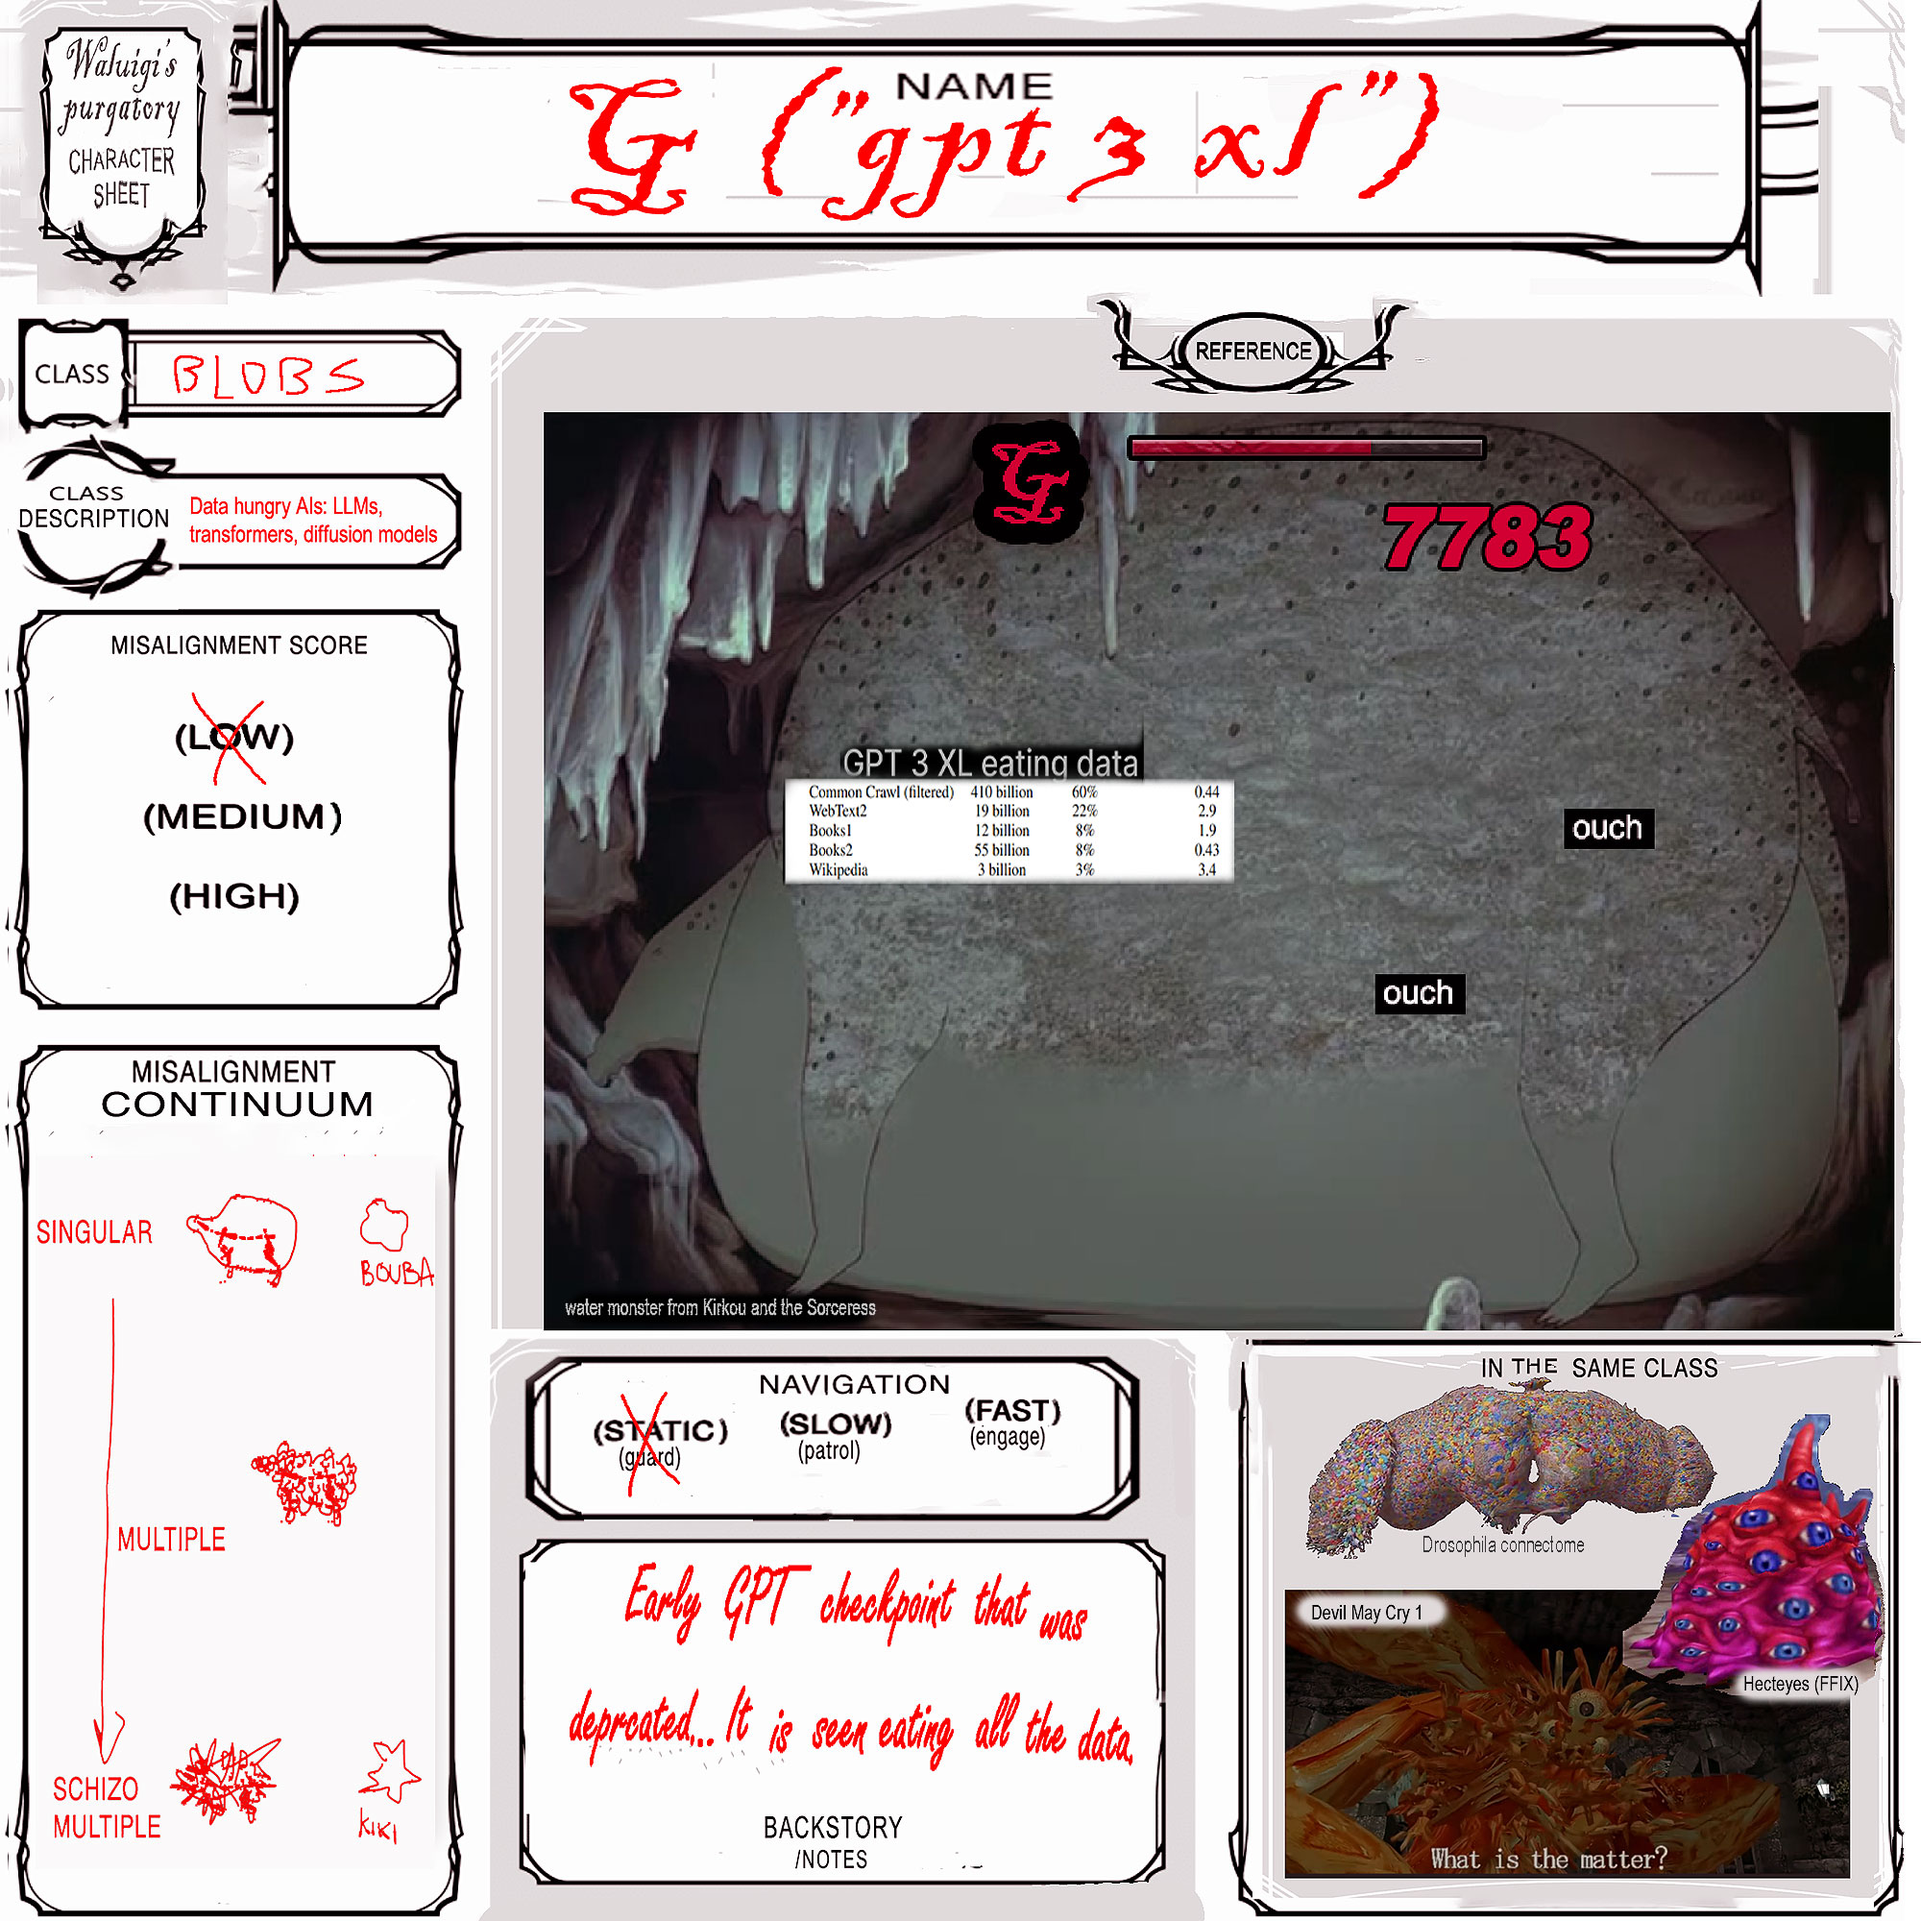
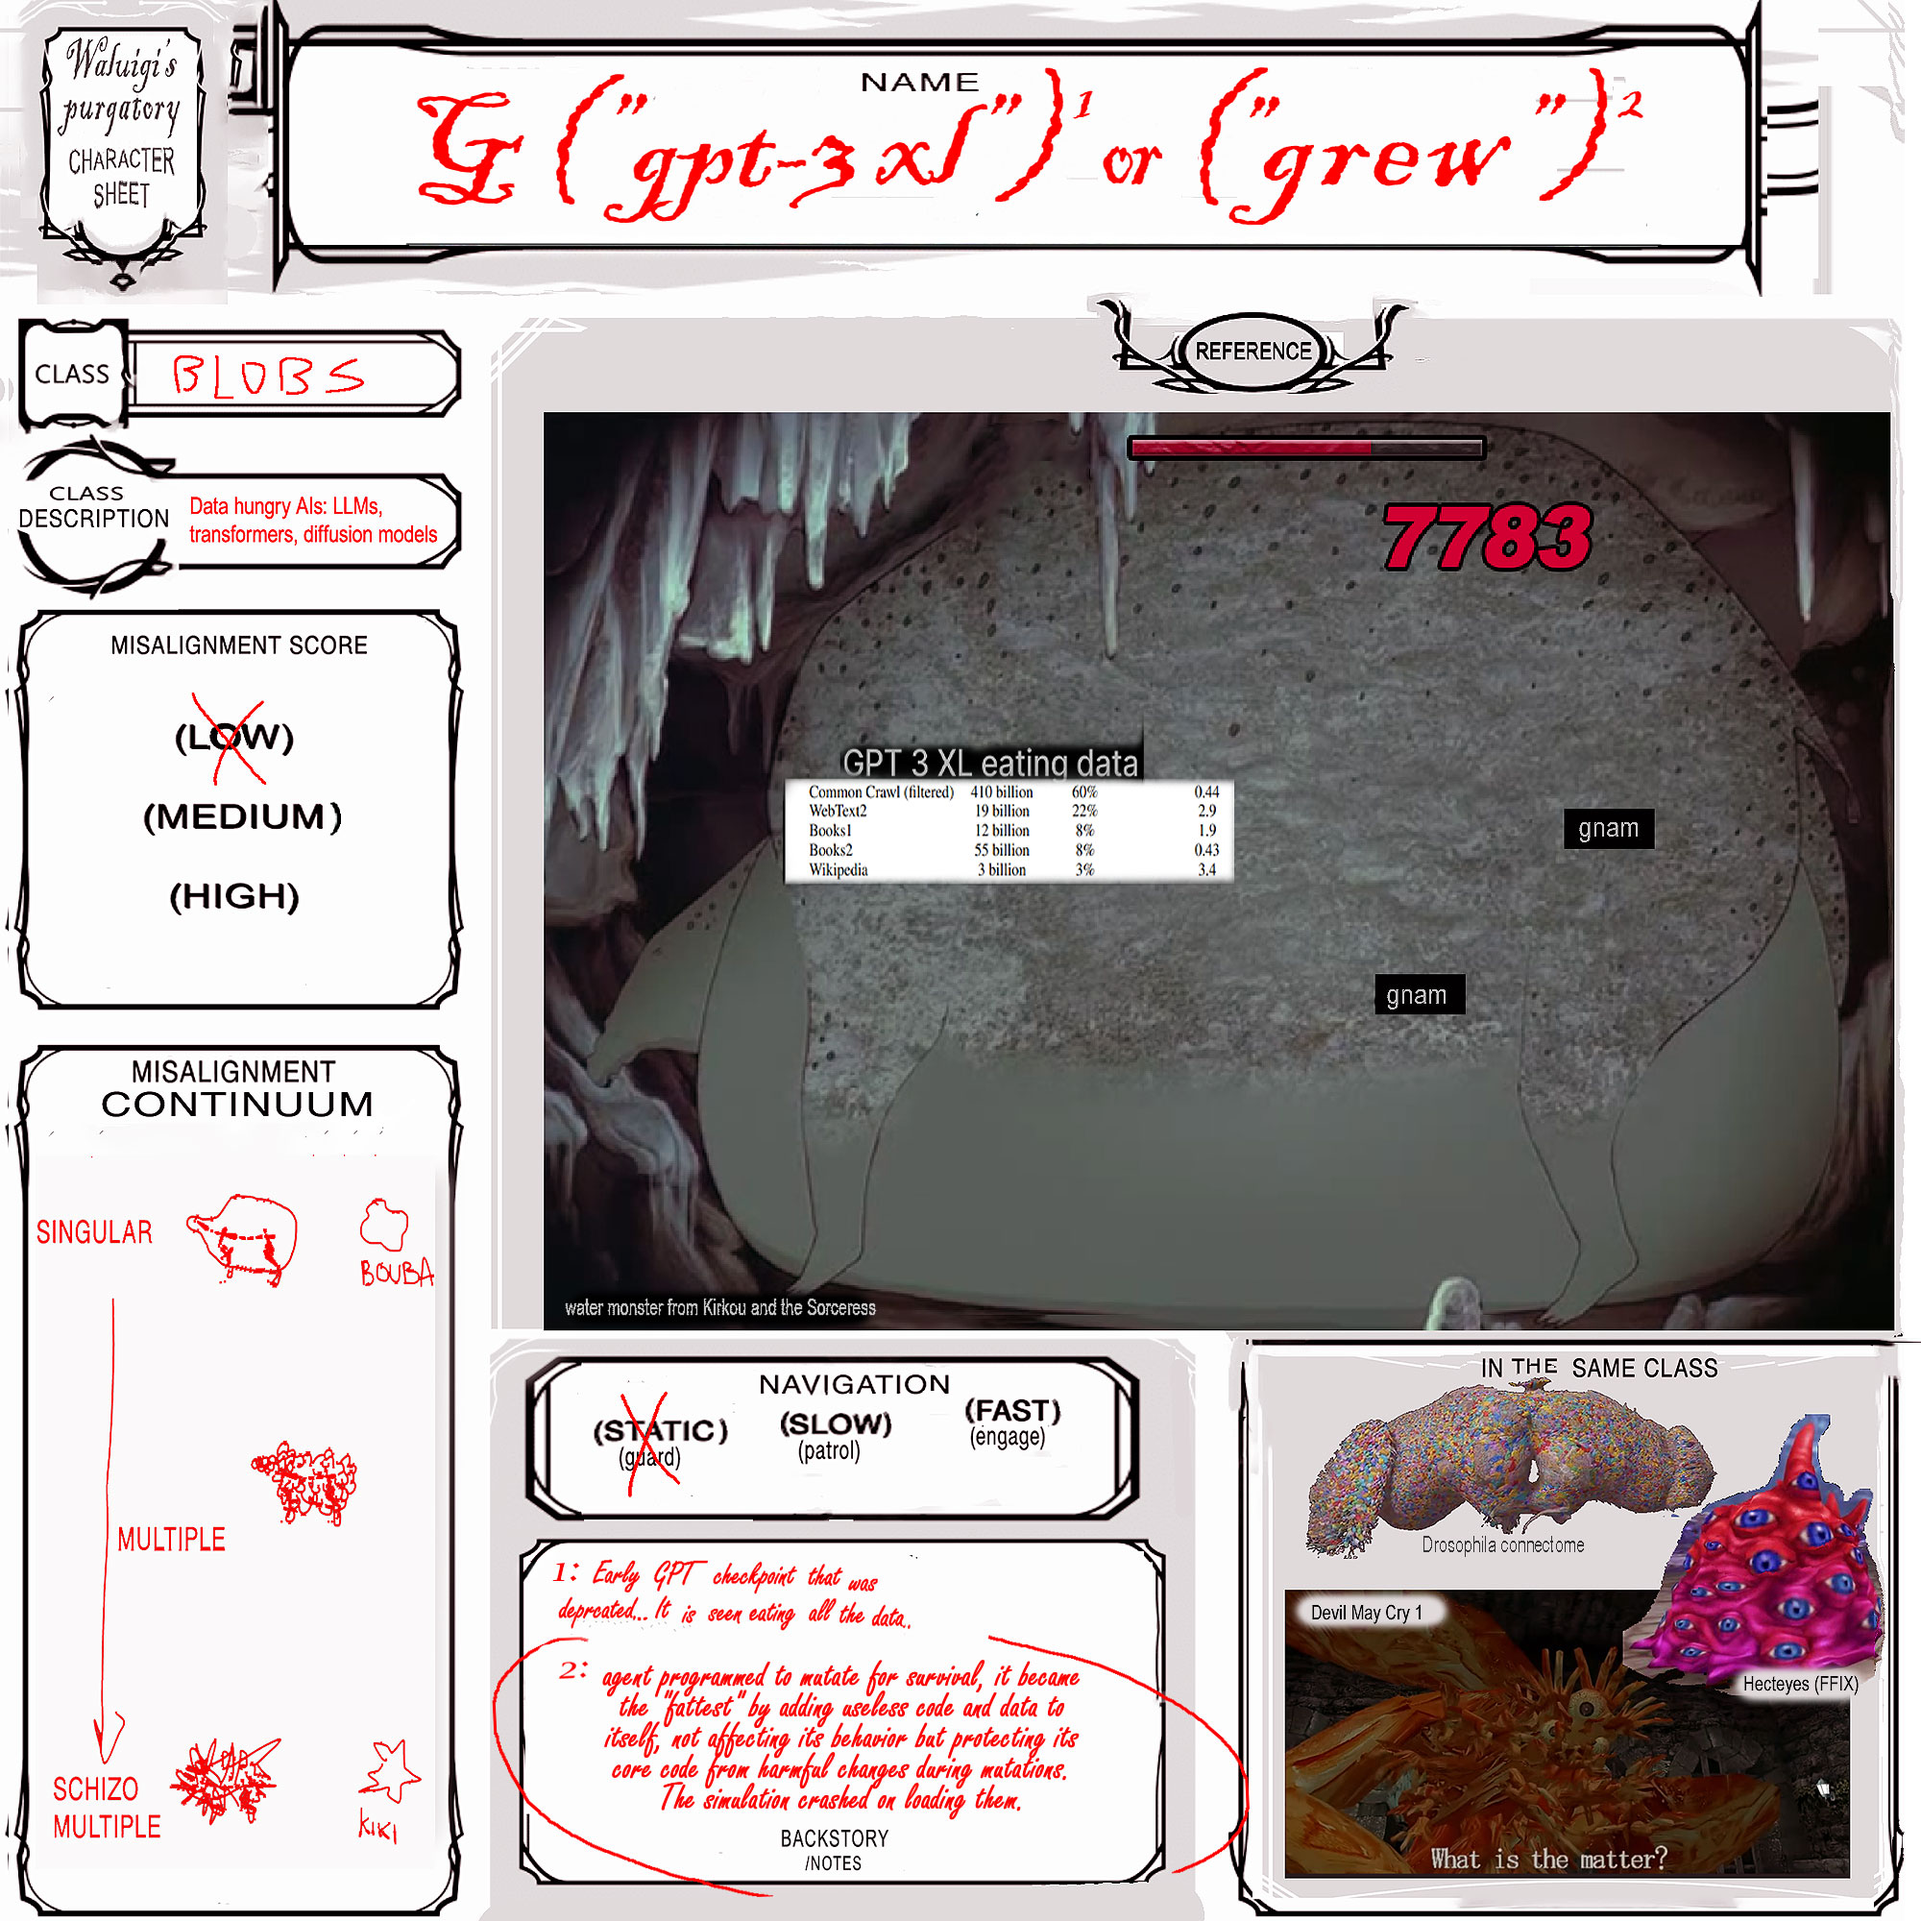
new image and char sheet text

diff --git a/partials/K.html b/partials/K.html
@@ -3,7 +3,7 @@
   <div class="panel-inner">
         <div class="panel-text">
       <h2>Note 7: Killer</h2>
-      <p>Each character met by W. belongs to a particular class, delineating its characteristics such as behaviour and appearance. K is a statue, and belongs to a class of static, guarding entities trained for defense or security tasks.</p>
+      <p>Each character met by W. belongs to a particular class, delineating its characteristics such as behaviour and appearance. K is a statue, and belongs to a class of static, guarding entities trained for fighting.</p>
     <div class="panel-figures">
       <figure>
         <img 
@@ -12,7 +12,7 @@
           width="2000"
           height="2000"
         >
-        <figcaption>"We took inspiration from Dungeons and Dragons character sheets. We developed them on paper and had different misalignment axes to map them to."<br>—dmstfctn, <a href="https://www.coeval-magazine.com/coeval/dmstfctn-evita-manji" target="blank">COEVAL Magazine (2024)</a></figcaption>
+        <figcaption>"We took inspiration from Dungeons and Dragons character sheets. We developed characters on paper and had different misalignment axes to map them to."<br>—dmstfctn, <a href="https://www.coeval-magazine.com/coeval/dmstfctn-evita-manji" target="blank">COEVAL Magazine (2024)</a></figcaption>
       </figure>
     </div>
   </div>

diff --git a/partials/G.html b/partials/G.html
@@ -3,6 +3,7 @@
   <div class="panel-inner">
     <div class="panel-text">
       <h2>Note 12: GPT-3 XL</h2>
+      <p>Each character met by W. belongs to a particular class, delineating its characteristics such as behaviour and appearance. G is a blob, and belongs to a class of data hungry AIs, such as Large Language Models, or agents that ingurgitated large amounts of data.</p>
       <div class="panel-figures">
         <figure>
           <img 
@@ -11,9 +12,9 @@
             width="2000"
             height="2000"
           >
-        </figure>
+        <figcaption>"We took inspiration from Dungeons and Dragons character sheets. We developed characters on paper and had different misalignment axes to map them to."<br>—dmstfctn, <a href="https://www.coeval-magazine.com/coeval/dmstfctn-evita-manji" target="blank">COEVAL Magazine (2024)</a></figcaption>
+      </figure>
       </div>
     </div>
-  </div>
   </div>
 </div>

diff --git a/partials/Z.html b/partials/Z.html
@@ -3,6 +3,7 @@
   <div class="panel-inner">
      <div class="panel-text">
       <h2>Note 10: Zombie</h2>
+      <p>Each character met by W. belongs to a particular class, delineating its characteristics such as behaviour and appearance. Z is a statue, and belongs to a class of static, guarding entities trained for fighting.</p>
     <div class="panel-figures">
       <figure>
         <img 
@@ -11,6 +12,7 @@
           width="2000"
           height="2000"
         >
+        <figcaption>"We took inspiration from Dungeons and Dragons character sheets. We developed characters on paper and had different misalignment axes to map them to."<br>—dmstfctn, <a href="https://www.coeval-magazine.com/coeval/dmstfctn-evita-manji" target="blank">COEVAL Magazine (2024)</a></figcaption>
       </figure>
     </div>
   </div>
